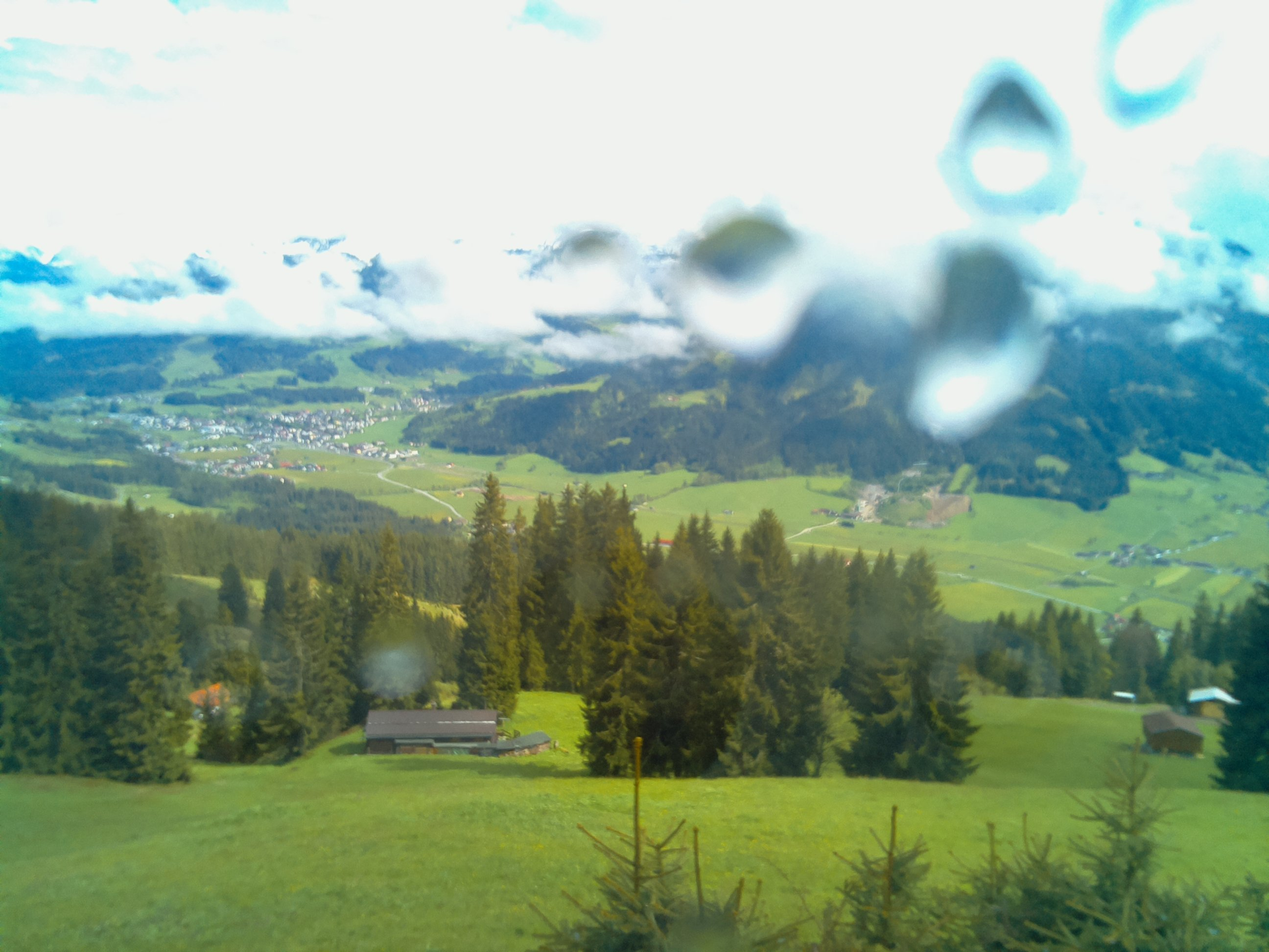
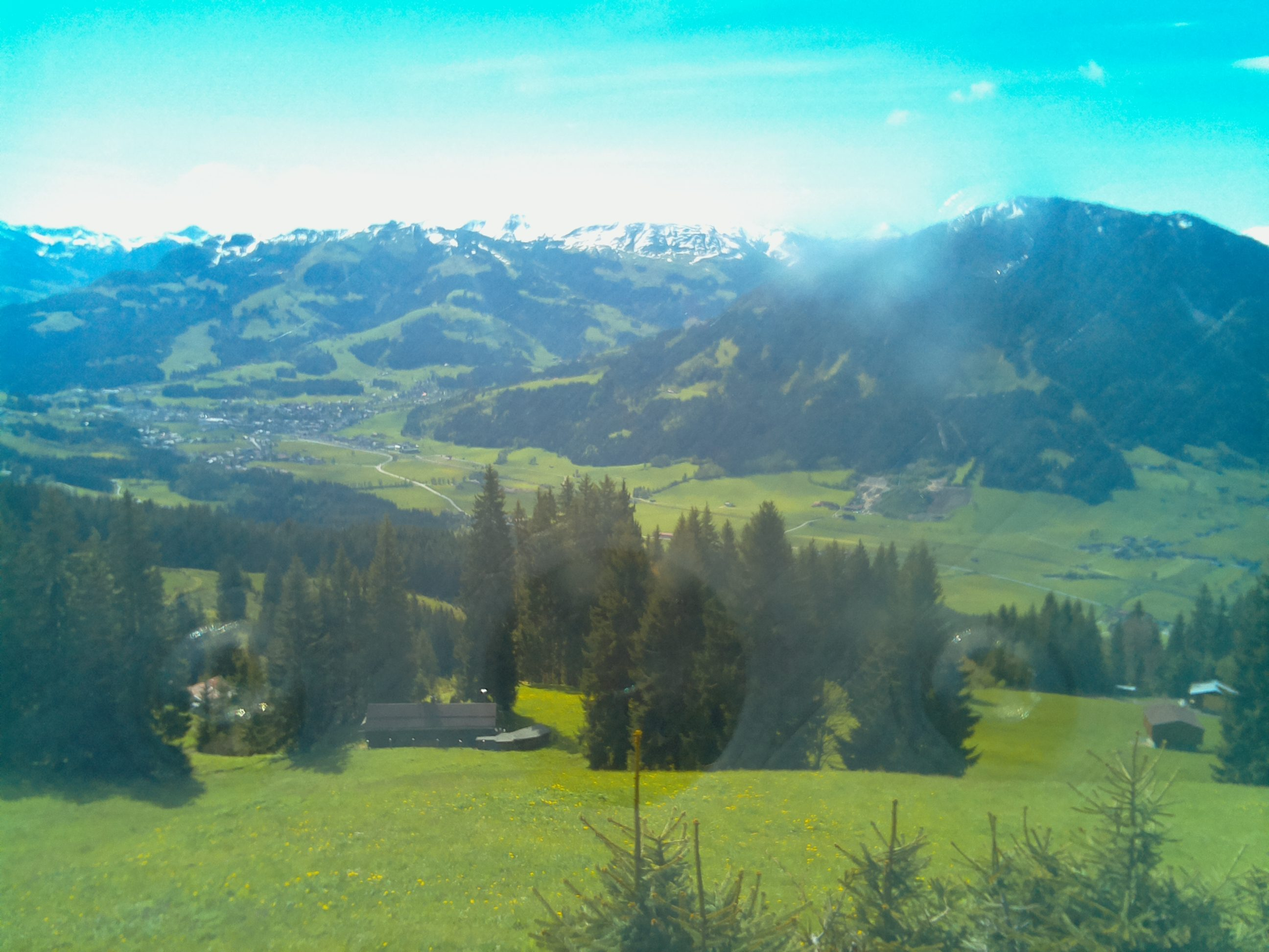
I'm a bot beep boop

diff --git a/resources/huette.md b/resources/huette.md
@@ -6,13 +6,13 @@ image: '/assets/img/'
 description: 'Live image from the Austrian alps'
 twitter_text: ' '
 ---
-## Latest image from 25 May 2021 at 16:12
+## Latest image from 25 May 2021 at 16:31
 <div class="huette">
   <div class="huette-image">
     <img src="{{ "/assets/img/huette.jpg" | prepend: site.baseurl }}">
   </div>
   <div class="huette-text">
-        <h2>Current Temperature: 4.812°C</h2>
+        <h2>Current Temperature: 8.562°C</h2>
         <p>A solar powered raspberry pi left alone in the wild is sending daily images and temperature data to this website. It should give you an impression about the current weather in the "Brixental".</p>
 
   </div>

diff --git a/rpi-script/huette.md b/rpi-script/huette.md
@@ -6,13 +6,13 @@ image: '/assets/img/'
 description: 'Live image from the Austrian alps'
 twitter_text: ' '
 ---
-## Latest image from 25 May 2021 at 16:12
+## Latest image from 25 May 2021 at 16:31
 <div class="huette">
   <div class="huette-image">
     <img src="{{ "/assets/img/huette.jpg" | prepend: site.baseurl }}">
   </div>
   <div class="huette-text">
-        <h2>Current Temperature: 4.812°C</h2>
+        <h2>Current Temperature: 8.562°C</h2>
         <p>A solar powered raspberry pi left alone in the wild is sending daily images and temperature data to this website. It should give you an impression about the current weather in the "Brixental".</p>
 
   </div>
